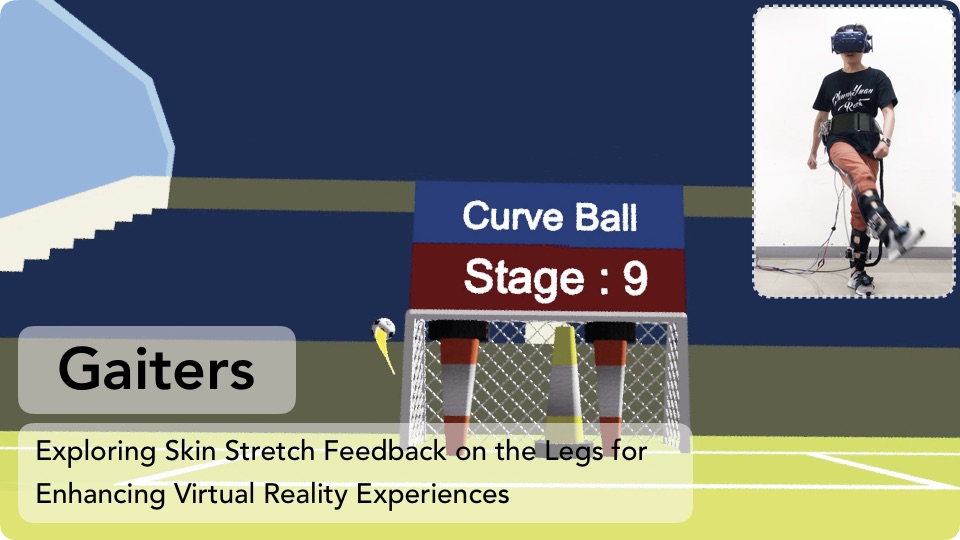
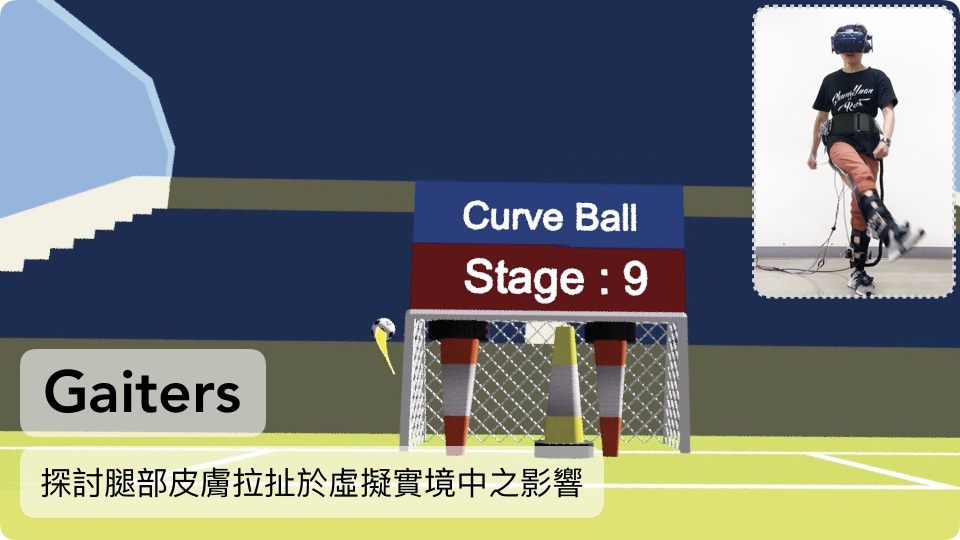
Thumbnail update.
Update thumbnail image, header style in index, link open in new tab.

Changed region(s): [[0.0, 0.5926, 0.7188, 0.9778]]

diff --git a/index.html b/index.html
@@ -48,56 +48,82 @@
 							<h2>This is Shuowen.<br />
 							A human-centered designer based in Taipei.</h2>
 						</header>
-						<p>Hi, I'm a 2nd-year master student working on novel HCI research in Interaction Design and Development Lab at National Chiao Tung University, Taiwan led by Prof. Da-Yuan Huang. Before that, I received my bachelor's degree in Industrial Design. Our previous works include <a href="https://www.youtube.com/watch?v=4LMiQTOOJ7o">MASQUE</a> - a skin-stretching Head-Mounted Display generates haptic feedback on human face, <a href="https://www.youtube.com/watch?v=jUDOkhaOa2U">GAITERS</a> - a skin-stretching device generates haptic feedback on lower limbs, and <a href="https://www.youtube.com/watch?v=eyHhX3zrSII">GLISSADE</a> - a weight-shifting digital pen to facilitate input. These works have been presented at top-tier conferences, including CHI and UIST.</p>
+						<p>Hi, I'm a 2nd-year master student working on novel HCI research in Interaction Design and Development Lab at National Chiao Tung University, Taiwan led by Prof. Da-Yuan Huang. Before that, I received my bachelor's degree in Industrial Design. Our previous works include <a href="https://www.youtube.com/watch?v=4LMiQTOOJ7o" target="_blank">MASQUE</a> - a skin-stretching Head-Mounted Display generates haptic feedback on human face, <a href="https://www.youtube.com/watch?v=jUDOkhaOa2U" target="_blank">GAITERS</a> - a skin-stretching device generates haptic feedback on lower limbs, and <a href="https://www.youtube.com/watch?v=eyHhX3zrSII" target="_blank">GLISSADE</a> - a weight-shifting digital pen to facilitate input. These works have been presented at top-tier conferences, including CHI and UIST.</p>
 						<ul class="actions">
-							<li><a href="images/fulls/ShuowenCV.pdf" class="button">View my CV</a></li>
-							<li><a href="images/fulls/CV.pdf" class="button">中文簡歷</a></li>
+							<li><a href="images/fulls/CV.pdf" target="_blank" class="button">中文簡歷</a></li>
+							<li><a href="images/fulls/ShuowenCV.pdf" target="_blank" class="button">Résumé</a></li>
 						</ul>
 					</section>
 
 
 				<!-- Two -->
 					<section id="two">
+
+						<h2>UX Project</h2>
+						<div class="row">
+
+							<article class="col-6 col-12-xsmall">
+								<a href="project_couple.html" class="image fit thumb"><img src="images/thumbs/04.jpg" alt="" /></a>
+								<header>
+									<h4>Love is in the Air</h4>
+									<p>A user-centered design project focusing on couples in long distance relationships.</p>
+								</header>
+							</article>
+
+							<article class="col-6 col-12-xsmall">
+								<a href="project_museum.html" class="image fit thumb"><img src="images/thumbs/05.jpg" alt="" /></a>
+								<header>
+									<h4>Chimei Museum Guiding System</h4>
+									<p>AR Museum Guiding Application.</p>
+								</header>
+							</article>
+
+						</div>
+
+						<br/>
+
 						<h2>HCI Research Work</h2>
 						<div class="row">
 							<article class="col-6 col-12-xsmall">
-								<a href="project_masque.html" class="image fit thumb"><img src="images/thumbs/01.jpg" alt="" /></a>
-								<h3>Masque</h3>
-								<p>Exploring Lateral Skin Stretch Feedback on the Face with Head-Mounted Displays.</p>
-							</article>
-							<article class="col-6 col-12-xsmall">
 								<a href="project_gaiters.html" class="image fit thumb"><img src="images/thumbs/02.jpg" alt="" /></a>
-								<h3>Gaiters</h3>
-								<p>Exploring Skin Stretch Feedback on the Legs for Enhancing Virtual Reality Experiences.</p>
+								<header>	
+									<h4>Gaiters</h4>
+									<p>Exploring Skin Stretch Feedback on the Legs for Enhancing Virtual Reality Experiences.</p>
+								</header>
 							</article>
+
 							<article class="col-6 col-12-xsmall">
 								<a href="project_glissade.html" class="image fit thumb"><img src="images/thumbs/03.jpg" alt="" /></a>
-								<h3>Glissade</h3>
-								<h5>🏆 Honorable Mention</h5>
-								<p>Generating Balance Shifting Feedback to Facilitate Auxiliary Digital Pen Input.</p>
+								<header>
+									<h4>Glissade &emsp; &emsp; <span style="border:2px pink outset;font-size:13px;background: white;padding:6px;">🏆 Honorable Mention</span></h4>
+								<p>Generating Balance Shifting Feedback to Facilitate Auxiliary Digital Pen Input.</p><br/>
+								</header>
 							</article>
+							
+
 							<article class="col-6 col-12-xsmall">
-								<a href="project_couple.html" class="image fit thumb"><img src="images/thumbs/04.jpg" alt="" /></a>
-								<h3>Love is in the Air</h3>
-								<p>A user-centered design project focusing on couples in long distance relationships.</p>
+								<a href="project_masque.html" class="image fit thumb"><img src="images/thumbs/01.jpg" alt="" /></a>
+								<header>
+									<h4>Masque</h4>
+									<p>Exploring Lateral Skin Stretch Feedback on the Face with Head-Mounted Displays.</p><br/>
+								</header>
 							</article>
-							<article class="col-6 col-12-xsmall">
-								<a href="project_museum.html" class="image fit thumb"><img src="images/thumbs/05.jpg" alt="" /></a>
-								<h3>Chimei Museum Guiding System</h3>
-								<p>AR Museum Guiding Application.</p>
-							</article>
+							
 							<article class="col-6 col-12-xsmall work-item">
 								<a href="images/fulls/06.jpg" class="image fit thumb"><img src="images/thumbs/06.jpg" alt="" /></a>
-								<h3>Risus ornare lacinia</h3>
-								<p>Lorem ipsum dolor sit amet nisl sed nullam feugiat.</p>
+								<header>
+									<h4>Risus ornare lacinia</h4>
+									<p>Lorem ipsum dolor sit amet nisl sed nullam feugiat.</p>
+								</header>
 							</article>
 						</div>
 						<ul class="actions">
-							<li><a href="https://issuu.com/shuo-wenhsu/docs/portfolio" class="button">Product Design Portfolio</a></li>
+							<li><a href="https://issuu.com/shuo-wenhsu/docs/portfolio" target="_blank" class="button primary">Product Design Portfolio</a></li>
 						</ul>
 					</section>
 
 				<!-- Three -->
+<!-- delete messaging function
 					<section id="three">
 						<h2>Get In Touch</h2>
 						<p>Drop me a line!</p>
@@ -132,6 +158,7 @@
 							</div>
 						</div>
 					</section>
+-->
 
 				<!-- Four -->
 				<!--

diff --git a/project_masque.html b/project_masque.html
@@ -136,7 +136,10 @@
 								<iframe width="560" height="315" src="https://www.youtube.com/watch?v=4LMiQTOOJ7o" frameborder="0" allowfullscreen=""></iframe>
 								-->
 
+								<!--<h5>Left &amp; Right</h5>-->
+								<p><span class="image left"><img src="images/fulls/masque/rch01.jpg" alt="" /></span><h5>How I participated:</h5> <hr>原型的機構設計及製作</p>
 
+								<p><hr></p>
 
 								<span class="image featured"><img src="images/fulls/masque/rch01.jpg" alt="" /></span>
 								<p>Skin stretch has been found effective to induce the perception of force (e.g. weight or inertia) and to enable directional haptic cues. However, its potential as an HMD output for virtual reality (VR) remains to be exploited. This paper propose integrating an array of skin stretch modules with an head-mounted display (HMD) to provide two-dimensional skin stretch feedback on the user’s face. </p>
@@ -174,9 +177,9 @@
 
 								<footer>
 									<ul class="stats">
-										<li><a href="https://www.youtube.com/watch?v=4LMiQTOOJ7o">Video</a></li>
-										<li><a href="https://youtu.be/AuoENjRW5F0">Talk</a></li>
-										<li><a href="images/fulls/masque/paper_masque.pdf">Full paper</a></li>
+										<li><a href="https://www.youtube.com/watch?v=4LMiQTOOJ7o" target="_blank">Video</a></li>
+										<li><a href="https://youtu.be/AuoENjRW5F0" target="_blank">Talk</a></li>
+										<li><a href="images/fulls/masque/paper_masque.pdf" target="_blank">Full paper</a></li>
 <!--
 										<li><a href="#" class="icon solid fa-heart">28</a></li>
 										<li><a href="#" class="icon solid fa-comment">128</a></li>

diff --git a/project_couple.html b/project_couple.html
@@ -132,7 +132,7 @@
 								<!--<span class="image featured"><img src="images/fulls/museum/app_demo.mp4" alt="" /></span>-->
 
 								<span class="image featured"><img src="images/fulls/couple/01.jpg" alt="" /></span>
-								<p>Following is a quick walk-through of our project regarding couples in long distance relationships.<br/> For more details to the project, please visit our <a href="https://bldpiqo.wixsite.com/ucidgroup1/weekend-couple">project website</a>. </p>
+								<p>Following is a quick walk-through of our project regarding couples in long distance relationships.<br/> For more details to the project, please visit our <a href="https://bldpiqo.wixsite.com/ucidgroup1/weekend-couple" target="_blank" >project website</a>. </p>
 
 
 
@@ -153,7 +153,7 @@
 
 								<footer>
 									<ul class="stats">
-										<li><a href="https://bldpiqo.wixsite.com/ucidgroup1/weekend-couple">Visit the Website ➜</a></li>
+										<li><a href="https://bldpiqo.wixsite.com/ucidgroup1/weekend-couple" target="_blank" >Visit the Website ➜</a></li>
 										<!--
 										<li><a href="https://youtu.be/AuoENjRW5F0">Talk</a></li>
 										<li><a href="images/fulls/masque/paper_masque.pdf">Full paper</a></li>

diff --git a/project_glissade.html b/project_glissade.html
@@ -142,9 +142,9 @@
 
 								<footer>
 									<ul class="stats">
-										<li><a href="https://www.youtube.com/watch?v=eyHhX3zrSII">Video</a></li>
-										<li><a href="#">Talk</a></li>
-										<li><a href="images/fulls/glissade/paper_glissade.pdf">Full paper</a></li>
+										<li><a href="https://www.youtube.com/watch?v=eyHhX3zrSII" target="_blank">Video</a></li>
+										<li><a href="#" target="_blank">Talk</a></li>
+										<li><a href="images/fulls/glissade/paper_glissade.pdf" target="_blank">Full paper</a></li>
 										<!--
 										<li><a href="#" class="icon solid fa-heart">28</a></li>
 										<li><a href="#" class="icon solid fa-comment">128</a></li>

diff --git a/project_gaiters.html b/project_gaiters.html
@@ -141,9 +141,9 @@
 
 								<footer>
 									<ul class="stats">
-										<li><a href="https://www.youtube.com/watch?v=jUDOkhaOa2U">Video</a></li>
-										<li><a href="#">Talk</a></li>
-										<li><a href="images/fulls/gaiters/paper_gaiters.pdf">Full paper</a></li>
+										<li><a href="https://www.youtube.com/watch?v=jUDOkhaOa2U" target="_blank">Video</a></li>
+										<li><a href="#" target="_blank">Talk</a></li>
+										<li><a href="images/fulls/gaiters/paper_gaiters.pdf" target="_blank">Full paper</a></li>
 										<!--
 										<li><a href="#" class="icon solid fa-heart">28</a></li>
 										<li><a href="#" class="icon solid fa-comment">128</a></li>

diff --git a/project_museum.html b/project_museum.html
@@ -156,9 +156,8 @@
 
 								<footer>
 									<ul class="stats">
-										<li><a href="https://www.youtube.com/watch?v=4LMiQTOOJ7o">Video</a></li>
-										<li><a href="https://youtu.be/AuoENjRW5F0">Talk</a></li>
-										<li><a href="images/fulls/masque/paper_masque.pdf">Full paper</a></li>
+										<li><a href="https://www.youtube.com/watch?v=4LMiQTOOJ7o">Demo Video</a></li>
+										
 <!--
 										<li><a href="#" class="icon solid fa-heart">28</a></li>
 										<li><a href="#" class="icon solid fa-comment">128</a></li>
